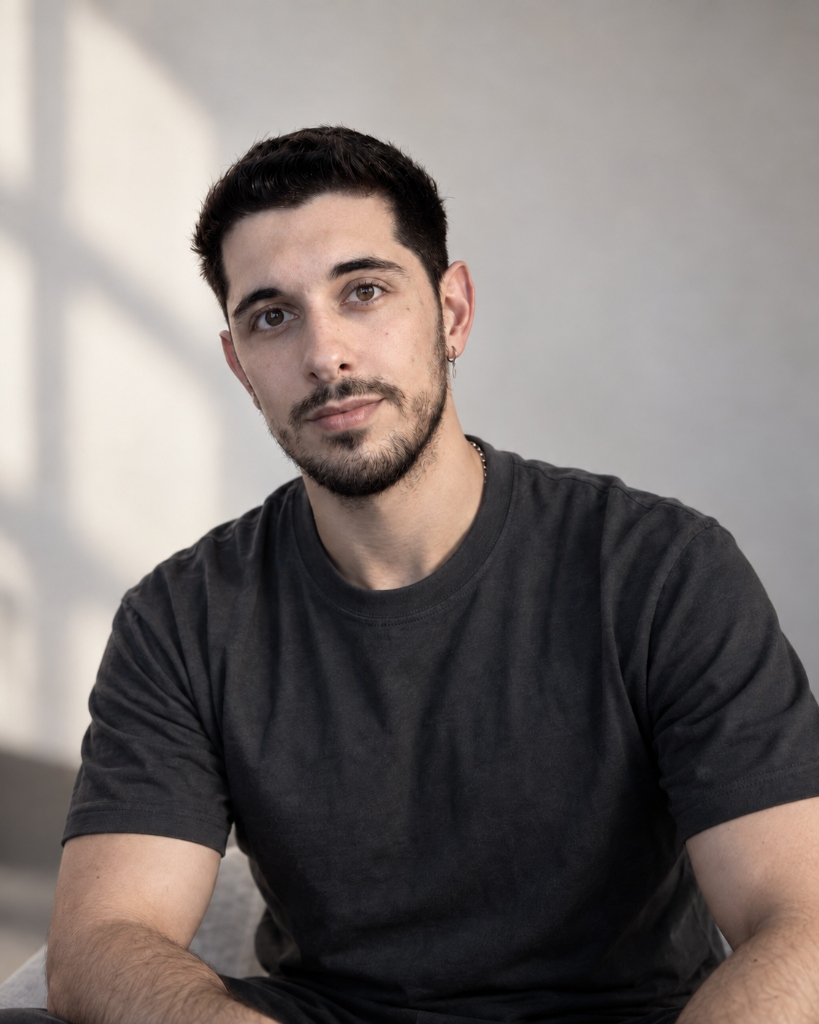
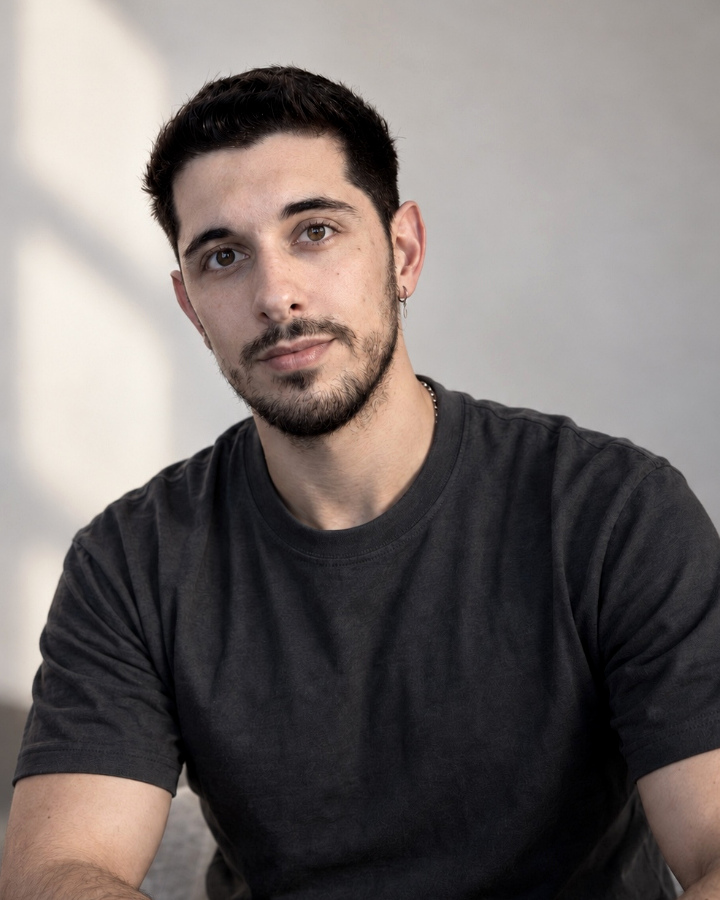
feat: afinar palabra analista, mejorar nitidez y encuadre de foto hero, alinear botones con margen inferior, optimizar bajada, destacar frase de cierre y agregar tarjeta de identidad con iconos

diff --git a/css/v2.css b/css/v2.css
@@ -278,11 +278,33 @@ body {
   display: grid;
   grid-template-columns: minmax(0, 1.2fr) auto;
   gap: clamp(28px, 3.5vw, 44px);
-  align-items: center;
+  align-items: stretch;
   max-width: 1160px;
   margin: 0 auto;
   width: 100%;
   padding: 0 32px;
+}
+
+@media (min-width: 1025px) {
+  .hero-grid {
+    align-items: stretch;
+  }
+  .hero-text-col {
+    display: flex;
+    flex-direction: column;
+    justify-content: space-between;
+    height: 100%;
+  }
+  .hero-actions-container {
+    margin-top: auto;
+    margin-bottom: 0;
+    padding-top: 24px;
+  }
+  .hero-photo-col {
+    display: flex;
+    justify-content: flex-end;
+    align-items: flex-end;
+  }
 }
 
 @media (max-width: 1024px) {
@@ -290,6 +312,13 @@ body {
     grid-template-columns: 1fr;
     gap: 36px;
     padding: 0 28px;
+    align-items: start;
+  }
+  .hero-text-col {
+    height: auto;
+  }
+  .hero-actions-container {
+    margin-top: 28px;
   }
 }
 @media (max-width: 768px) {
@@ -313,8 +342,8 @@ body {
   color: var(--coral-glow);
   font-style: italic;
   font-family: var(--font-serif);
-  font-size: 1.08em;
-  font-weight: 400;
+  font-size: 1.18em;
+  font-weight: 300;
   letter-spacing: -0.01em;
 }
 
@@ -512,7 +541,7 @@ body {
   box-shadow: 0 20px 55px rgba(45, 49, 66, 0.11), 0 4px 12px rgba(45, 49, 66, 0.05);
   background-color: var(--silver);
   position: relative;
-  will-change: transform;
+  image-rendering: -webkit-optimize-contrast;
 }
 
 .hero-photo-img {
@@ -521,6 +550,7 @@ body {
   object-fit: cover;
   object-position: center top;
   display: block;
+  image-rendering: -webkit-optimize-contrast;
 }
 
 /* Animaciones de entrada Hero */
@@ -776,15 +806,84 @@ body {
   }
 }
 
-.conoceme-photo-caption {
-  font-family: var(--font-sans);
-  font-size: 14px;
-  font-weight: 500;
-  color: rgba(245, 242, 236, 0.72);
+/* Tarjeta / Badge de identidad bajo la foto de Conóceme */
+.conoceme-photo-meta-box {
+  width: 100%;
+  max-width: 360px;
   margin-top: 14px;
-  text-align: center;
-  letter-spacing: 0.01em;
-  line-height: 1.4;
+  background: rgba(35, 38, 52, 0.85);
+  backdrop-filter: blur(16px);
+  -webkit-backdrop-filter: blur(16px);
+  border: 1px solid rgba(245, 242, 236, 0.12);
+  border-radius: 16px;
+  padding: 12px 18px;
+  box-shadow: 0 14px 30px rgba(0, 0, 0, 0.28);
+  display: flex;
+  flex-direction: column;
+  align-items: center;
+  gap: 6px;
+  box-sizing: border-box;
+  transition: border-color 300ms ease, box-shadow 300ms ease;
+}
+
+@media (max-width: 768px) {
+  .conoceme-photo-meta-box {
+    max-width: 330px;
+  }
+}
+
+.conoceme-photo-meta-box:hover {
+  border-color: rgba(239, 131, 84, 0.35);
+  box-shadow: 0 16px 36px rgba(0, 0, 0, 0.35);
+}
+
+.meta-row {
+  display: flex;
+  align-items: center;
+  justify-content: center;
+}
+
+.meta-row-primary {
+  gap: 8px;
+}
+
+.meta-coral-icon {
+  width: 15px;
+  height: 15px;
+  color: var(--coral-glow);
+  stroke: var(--coral-glow);
+  flex-shrink: 0;
+}
+
+.meta-name {
+  font-family: var(--font-sans);
+  font-weight: 600;
+  font-size: 15px;
+  color: #FFFFFF;
+  letter-spacing: 0.015em;
+}
+
+.meta-row-secondary {
+  gap: 10px;
+  font-family: var(--font-sans);
+  font-size: 13.5px;
+  color: rgba(245, 242, 236, 0.76);
+}
+
+.meta-subitem {
+  display: inline-flex;
+  align-items: center;
+  gap: 5px;
+}
+
+.meta-subitem .meta-coral-icon {
+  width: 13px;
+  height: 13px;
+}
+
+.meta-bullet {
+  color: rgba(245, 242, 236, 0.28);
+  font-size: 14px;
 }
 
 .conoceme-apple-photo-img {
@@ -971,12 +1070,13 @@ body {
 
 /* Bloque de frase distintiva al pie de Conóceme */
 .conoceme-bottom-quote-block {
-  margin-top: clamp(48px, 6vw, 72px);
+  margin-top: clamp(64px, 8vw, 96px);
+  margin-bottom: 16px;
   text-align: center;
   display: flex;
   flex-direction: column;
   align-items: center;
-  gap: 10px;
+  gap: 14px;
   position: relative;
   z-index: 10;
   padding: 0 16px;
@@ -984,10 +1084,10 @@ body {
 
 .quote-block-label {
   font-family: var(--font-sans);
-  font-size: 15px;
-  font-weight: 400;
-  color: #9CA3AF; /* Gris suave / normal */
-  letter-spacing: 0.02em;
+  font-size: clamp(1.15rem, 1.6vw, 1.45rem); /* Frase agrandada y más presente */
+  font-weight: 500;
+  color: rgba(245, 242, 236, 0.82); /* Gris plata luminoso y distinguido */
+  letter-spacing: 0.01em;
   margin: 0;
 }
 
@@ -995,11 +1095,12 @@ body {
   font-family: var(--font-serif);
   font-style: italic;
   font-weight: 300; /* Cursiva fina */
-  font-size: clamp(1.85rem, 3.2vw, 2.75rem); /* Más grande */
+  font-size: clamp(2.4rem, 4.4vw, 3.6rem); /* Significativamente más destacada */
   color: var(--coral-glow); /* Naranja */
-  line-height: 1.25;
+  line-height: 1.18;
   margin: 0;
-  letter-spacing: -0.01em;
+  letter-spacing: -0.015em;
+  text-shadow: 0 0 35px rgba(239, 131, 84, 0.3);
 }
 
 /* ==========================================================================

diff --git a/index.html b/index.html
@@ -57,7 +57,7 @@
   <script src="https://cdn.jsdelivr.net/npm/canvas-confetti@1.9.3/dist/confetti.browser.min.js"></script>
 
   <!-- Stylesheet V2 -->
-  <link rel="stylesheet" href="css/v2.css?v=5.0">
+  <link rel="stylesheet" href="css/v2.css?v=5.1">
 </head>
 
 <body class="bg-[#F5F2EC] text-[#222222] font-sans antialiased relative selection:bg-[#EF8354] selection:text-white">
@@ -123,24 +123,26 @@
     <div class="hero-grid">
       
       <!-- Columna Izquierda: Texto -->
-      <div class="flex flex-col justify-center">
+      <div class="hero-text-col flex flex-col">
         
-        <!-- Título exacto -->
-        <h1 class="hero-title anim-hero-h1">
-          Mirar como usuario. Pensar como <span class="hero-highlight-coral">analista.</span>
-        </h1>
+        <div class="hero-text-content">
+          <!-- Título exacto -->
+          <h1 class="hero-title anim-hero-h1">
+            Mirar como usuario. Pensar como <span class="hero-highlight-coral">analista.</span>
+          </h1>
 
-        <!-- Bajada exacta -->
-        <p class="hero-bajada anim-hero-bajada">
-          Soy Alejandro Vacaro, Analista Funcional. Analizo procesos, entiendo sus problemas y traduzco esas necesidades para ayudar a convertirlas en mejoras posibles desde la tecnología.
-        </p>
+          <!-- Bajada optimizada: Sin redundancia, arranca con impacto y centrada en los usuarios -->
+          <p class="hero-bajada anim-hero-bajada">
+            Soy Alejandro Vacaro, Analista Funcional. Descubro los problemas reales de los usuarios, optimizo sus procesos y traduzco esas necesidades en soluciones tecnológicas que funcionan.
+          </p>
 
-        <!-- Frase editorial exacta -->
-        <p class="hero-complementary anim-hero-comp">
-          Ser un outsider en tecnología terminó siendo mi mejor ventaja competitiva.
-        </p>
+          <!-- Frase editorial exacta -->
+          <p class="hero-complementary anim-hero-comp">
+            Ser un outsider en tecnología terminó siendo mi mejor ventaja competitiva.
+          </p>
+        </div>
 
-        <!-- Dos Acciones exactas -->
+        <!-- Dos Acciones exactas (Alineadas al margen inferior de la foto en desktop) -->
         <div class="hero-actions-container anim-hero-btns">
           <!-- Botón primario: Contáctame con MessageCircle a la izquierda -->
           <a href="#contacto" class="hero-btn-primary">
@@ -254,7 +256,23 @@
           <div class="conoceme-apple-photo-card">
             <img src="assets/images/alejandro_about.jpg" alt="Alejandro Vacaro - Historia personal" class="conoceme-apple-photo-img" loading="lazy">
           </div>
-          <p class="conoceme-photo-caption">Alejandro Vacaro, <span id="user-calculated-age">33</span> años, Montevideo - Uruguay</p>
+          <div class="conoceme-photo-meta-box">
+            <div class="meta-row meta-row-primary">
+              <i data-lucide="user" class="meta-coral-icon"></i>
+              <span class="meta-name">Alejandro Vacaro</span>
+            </div>
+            <div class="meta-row meta-row-secondary">
+              <span class="meta-subitem">
+                <i data-lucide="sparkles" class="meta-coral-icon"></i>
+                <span><span id="user-calculated-age">33</span> años</span>
+              </span>
+              <span class="meta-bullet">·</span>
+              <span class="meta-subitem">
+                <i data-lucide="map-pin" class="meta-coral-icon"></i>
+                <span>Montevideo, Uruguay</span>
+              </span>
+            </div>
+          </div>
         </div>
 
         <!-- Columna Derecha: Tarjeta Escénica con Frases en Spotlight (Una a la vez) -->
@@ -1146,6 +1164,6 @@
   </div>
 
   <!-- Scripts V2 -->
-  <script src="js/v2.js?v=5.0"></script>
+  <script src="js/v2.js?v=5.1"></script>
 </body>
 </html>
